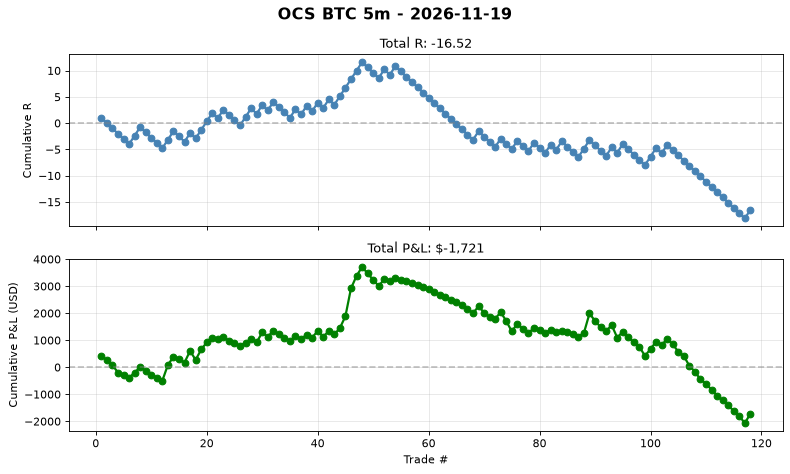
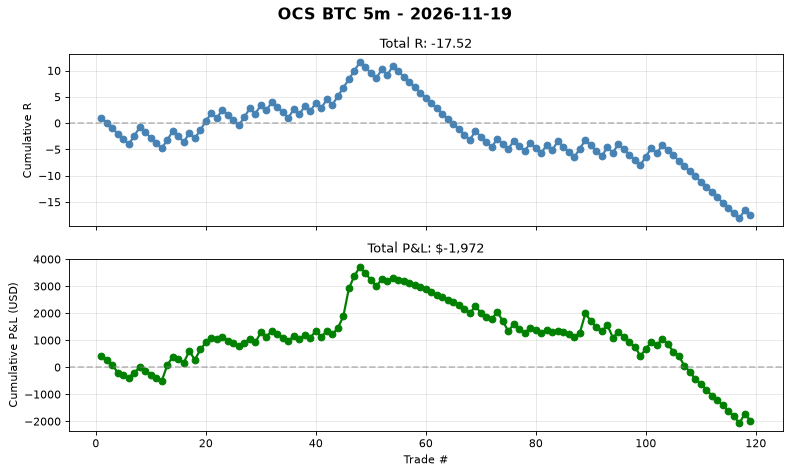
auto(ocs-btc): signal log 2026-11-19T01:25 trades=119

diff --git a/automation/reports/ocs_btc_5m/daily/2026-11-19.md b/automation/reports/ocs_btc_5m/daily/2026-11-19.md
@@ -1,5 +1,37 @@
 # OCS BTC 5m - 2026-11-19
 
-**No trades today.**
+## Summary
+- **Trades**: 1 (0W / 1L)
+- **Win Rate**: 0.0%
+- **Total R**: -1.00R
+- **Total P&L**: $-251
+- **Avg R**: -1.00R
+- **Profit Factor**: 0.78
 
-Cumulative stats: 118 trades | WR 33.1% | avg R -0.14
+## Exit Breakdown
+- T1 (+1.0R): 1
+- T2 (+1.618R): 38
+- T3 (+2.618R): 0
+- T4 (+3.618R): 0
+- T5 (+5.0R): 0
+- SL (-1.0R): 80
+
+## Best Trade
+- **LONG** at 63,063 -> SL 62,812
+- R = -1.00, P&L = $-251
+- Held for 9 bars
+
+## Worst Trade
+- **LONG** at 63,063 -> SL 62,812
+- R = -1.00, P&L = $-251
+- Held for 9 bars
+
+## Cumulative Stats (Lifetime)
+- Total trades: 119
+- WR: 32.8%
+- Avg R: -0.147
+- Total R: -17.52R
+- Profit Factor: 0.78
+
+## Chart
+See `daily/2026-11-19.png` for cumulative P&L curve.
